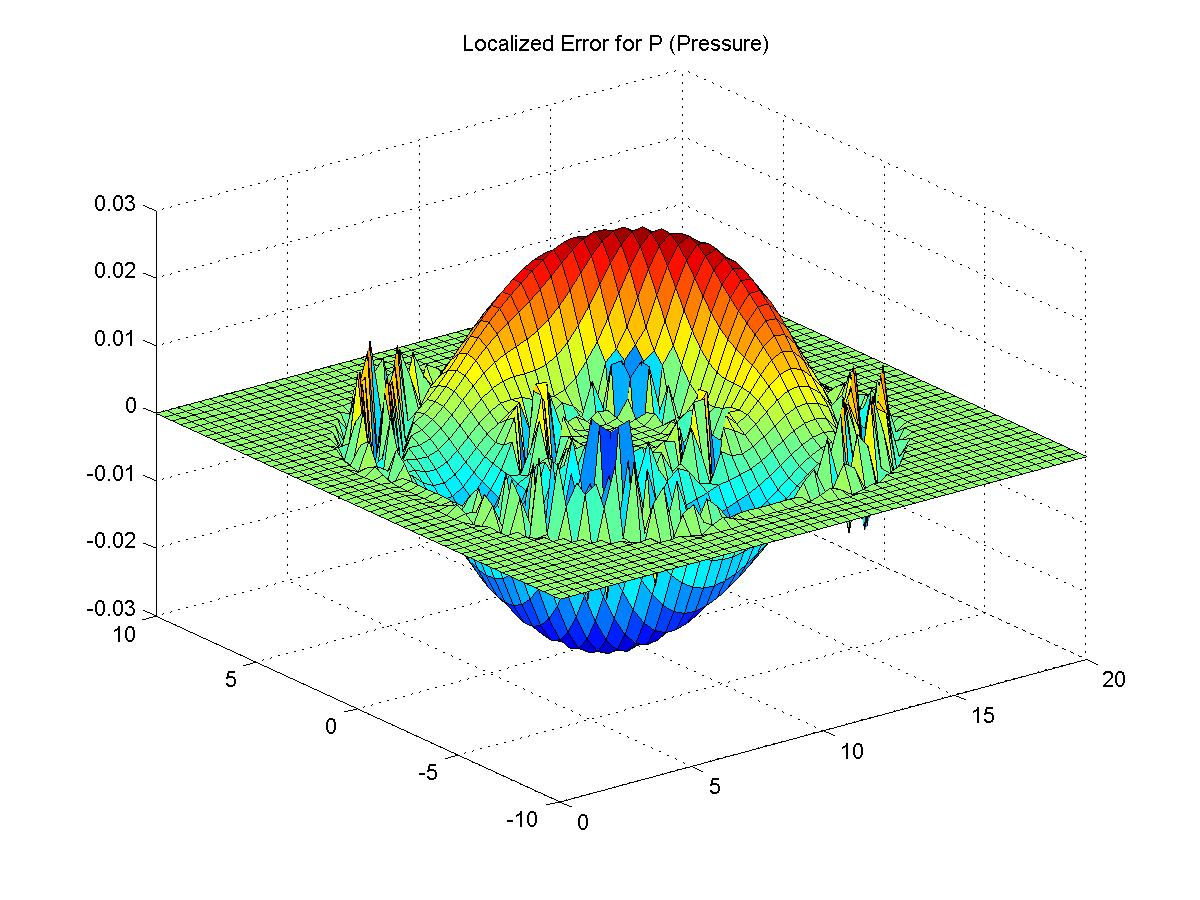
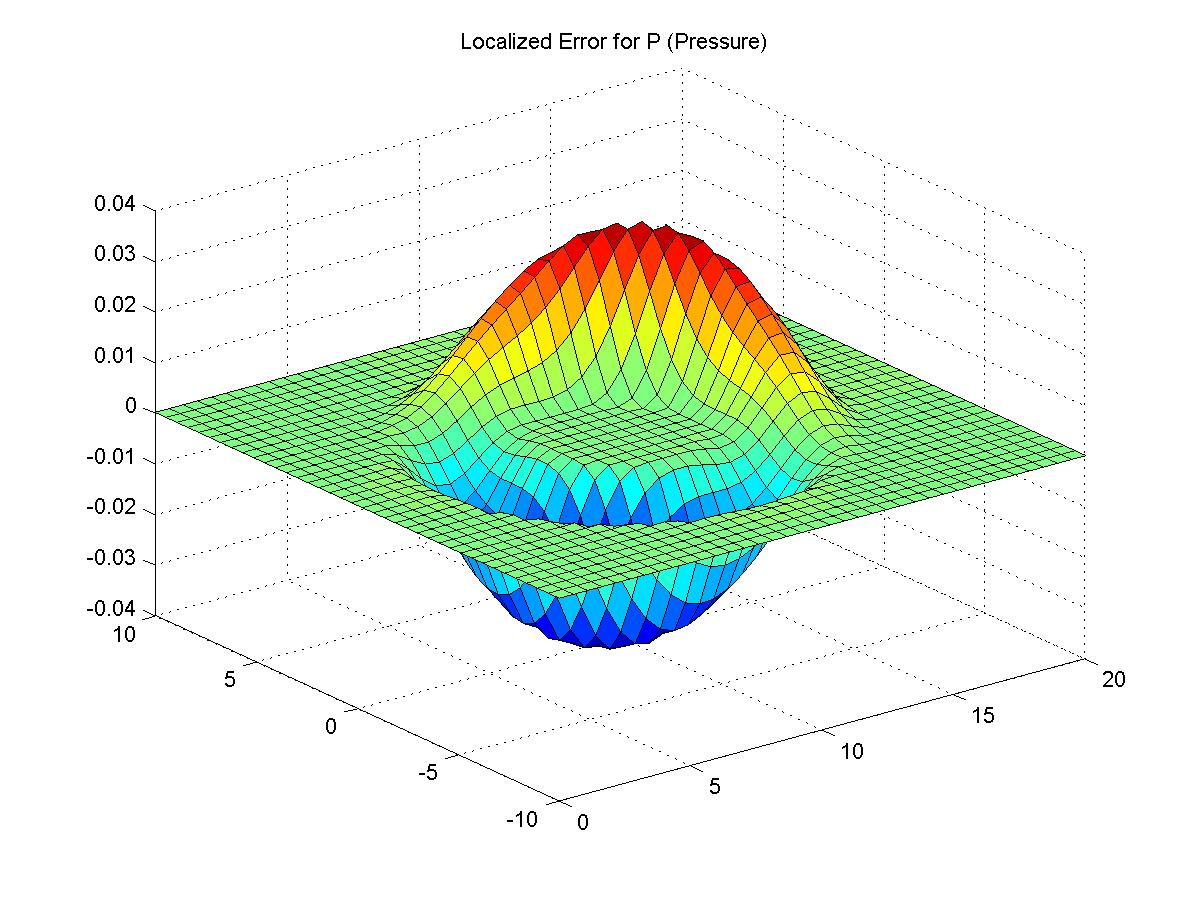
Added dt to stabilize
It worked.  Added the numerical values back in for p and grad p.
Getting 2nd order convergence for u and v and 1st order convergence for
p, tested out to the 20th time step.  Question:  Is dt supposed to be
multiplied by F as well?  It didn't converge that way.  @cvogl

diff --git a/Stokes2DPC.m b/Stokes2DPC.m
@@ -2,6 +2,7 @@ function [ P U V X Y numXCells numYCells dx] = Stokes2DPC(g, numYCells, p0, mu, 
 
 y = linspace(-height / 2, height / 2, numYCells);
 dx = y(2) - y(1);
+dt = .01*dx^2;
 numXCells = round((width / dx) + 1);
 %X = linspace(-width / 2, width / 2, numXCells);
 x = linspace(0, width, numXCells);
@@ -60,8 +61,8 @@ for t = 1:numTimeSteps  %This loop will surround the entire algoritm
     
     for i=2:numXCells-1
         for j=2:numYCells-1
-            u_star(ind(i,j),t) = u(ind(i,j),t) + (1/(dx^2)) * mu * (u(ind(i-1,j),t) - 4 * u(ind(i,j),t) + u(ind(i+1,j),t) + u(ind(i,j+1),t) + u(ind(i,j-1),t)) + F1(j,i);
-            v_star(ind(i,j),t) = v(ind(i,j),t) + (1/(dx^2)) * mu * (v(ind(i-1,j),t) - 4 * v(ind(i,j),t) + v(ind(i+1,j),t) + v(ind(i,j+1),t) + v(ind(i,j-1),t)) + F2(j,i);
+            u_star(ind(i,j),t) = u(ind(i,j),t) + dt * (1/(dx^2)) * mu * (u(ind(i-1,j),t) - 4 * u(ind(i,j),t) + u(ind(i+1,j),t) + u(ind(i,j+1),t) + u(ind(i,j-1),t)) + F1(j,i);
+            v_star(ind(i,j),t) = v(ind(i,j),t) + dt * (1/(dx^2)) * mu * (v(ind(i-1,j),t) - 4 * v(ind(i,j),t) + v(ind(i+1,j),t) + v(ind(i,j+1),t) + v(ind(i,j-1),t)) + F2(j,i);
         end
     end
     
@@ -223,10 +224,35 @@ for t = 1:numTimeSteps  %This loop will surround the entire algoritm
     %Question:  Why can't we just set u and v to zero at the borders?
     
     if t ~= numTimeSteps
-     
+             
+%         z = sqrt( (X-(L+R)).^2 + Y.^2 ) - R;
+%         E = .5 * R;
+%         id = -E < z & z < E;
+%         id2 = z <= -E;
+%   
+%         px = zeros(numYCells,numXCells);
+%         py = zeros(numYCells,numXCells);
+% 
+%         px(id) = (1/(2*R*E)) * ((X(id) - (L+R)) ./ (sqrt( (X(id)-(L+R)).^2 + Y(id).^2 )) + (cos(pi*z(id)/E)) .*(X(id) - (L+R)) ./ (sqrt( (X(id)-(L+R)).^2 + Y(id).^2)));
+%         px(id2) = 0;
+% 
+%         py(id) = (1/(2*R*E)) * (Y(id) ./ (sqrt( (X(id)-(L+R)).^2 + Y(id).^2 )) + (cos(pi*z(id)/E)) .*Y(id) ./ (sqrt( (X(id)-(L+R)).^2 + Y(id).^2)));
+%         py(id2) = 0;
+%         
+%         pxHat = zeros(numXCells*numYCells,1);
+%         pyHat = zeros(numXCells*numYCells,1);
+%         
+%         for i = 1:numXCells
+%             for j = 1:numYCells
+%                 pxHat(ind(i,j)) = px(j,i);
+%                 pyHat(ind(i,j)) = py(j,i);
+%             end
+%         end
+        
+        
         for i=1:numXCells
             for j=1:numYCells 
-
+  
                 if j==1 || j==numYCells || i==1 || i==numXCells
                     v(ind(i,j),t+1) = 0; 
                     u(ind(i,j),t+1) = 0; 
@@ -234,8 +260,9 @@ for t = 1:numTimeSteps  %This loop will surround the entire algoritm
                      u(ind(i,j),t+1) = u_star(ind(i,j),t) - (1/(2*dx)) * (p(ind(i,j),t) - p(ind(i-1,j),t) + p(ind(i,j-1),t) - p(ind(i-1,j-1),t));
                      v(ind(i,j),t+1) = v_star(ind(i,j),t) - (1/(2*dx)) * (p(ind(i,j),t) - p(ind(i,j-1),t) + p(ind(i-1,j),t) - p(ind(i-1,j-1),t));
 
-                      %u(ind(i,j),t+1) = (1/(2*dx)) * (p(ind(i,j),t) - p(ind(i-1,j),t) + p(ind(i,j-1),t) - p(ind(i-1,j-1),t));
-                      %v(ind(i,j),t+1) = (1/(2*dx)) * (p(ind(i,j),t) - p(ind(i,j-1),t) + p(ind(i-1,j),t) - p(ind(i-1,j-1),t));
+%                      u(ind(i,j),t+1) = u_star(ind(i,j),t) - pxHat(ind(i,j));
+%                      v(ind(i,j),t+1) = v_star(ind(i,j),t) - pyHat(ind(i,j));
+
                 end
                 
 %                 if j==1

diff --git a/Main.m b/Main.m
@@ -4,7 +4,7 @@ clc;
 
 animate = 0;
 checkError = 1;
-Linf = 0;
+Linf = 1;
 
 %Pressure Differential (Right side)
 p0 = 0;
@@ -20,7 +20,7 @@ width = 20;
 R = 5;
 L = 5;
 %T = .25;
-timeSteps = 3;
+timeSteps = 20;
 
 quivRes = 1;
 %%%%%%%%%%%%%%%%%%%%%%%%%%%%%%%%%%%%%%%%%%%%%%%%%%%%%%%%%%%%%%%%%%%%%%%%%%
@@ -30,7 +30,7 @@ quivRes = 1;
 %Compute Stokes2DPCwith a high discretization and use it as the "analytical" solution
 %%%%%%%%%%%%%%%%%%%%%%%%%%%%%%%%%%%%%%%%%%%%%%%%%%%%%%%%%%%%%%%%%%%%%%%%%%
 %num / 2 must be even
-num = 52;
+num = 40;
 tic;
 %[P U V X Y NUMXCELLS NUMYCELLS] = Stokes2DPC(g, num, p0, mu, height, width, R,L, timeSteps, 0);
 

diff --git a/force.m b/force.m
@@ -12,8 +12,7 @@ id2 = theta > (-pi / 2) & theta < (pi / 2);
 
 alpha(id2) = 0;
 
-%E = 2 * dx;
-%E = 2 * .125;
+%E = dx;
 E = .5 * R;
 
 %z = x.^2 + y.^2 - R^2;
